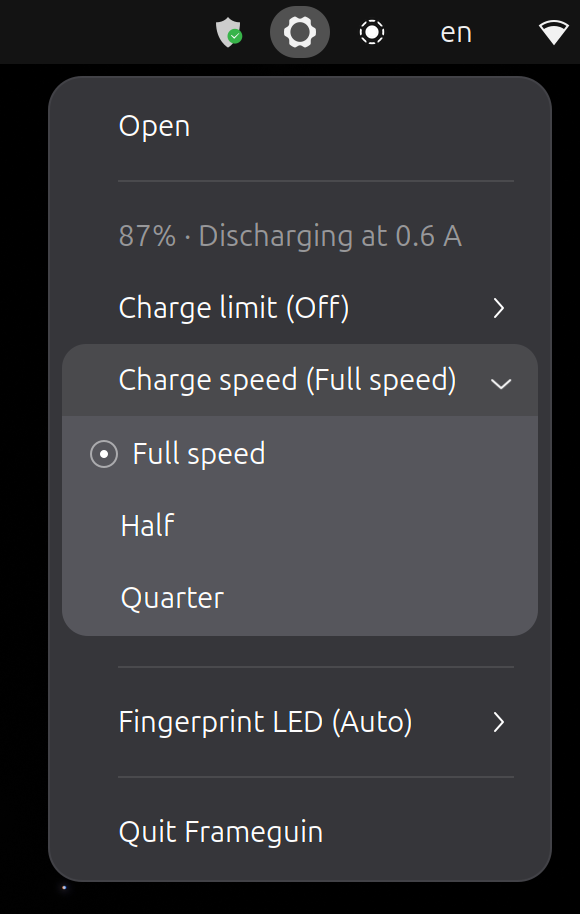
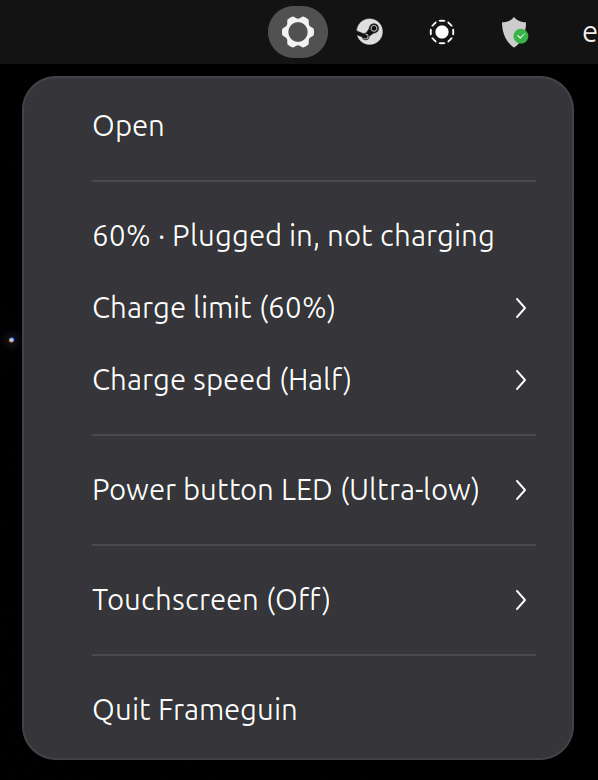
Release 0.2.0 with a touchscreen switch, a battery window and a parts window

diff --git a/docs/release.md b/docs/release.md
@@ -36,7 +36,7 @@ re-shoot in its own commit, so this is the backstop rather than the step that
 does it:
 
 ```sh
-git diff "$(git describe --tags --abbrev=0)"..HEAD -- app/src/ui.rs app/src/tray.rs
+git diff "$(git describe --tags --abbrev=0)"..HEAD -- app/src/window/ app/src/tray.rs
 ```
 
 Those are the files that draw what the two screenshots show. A non-empty diff
